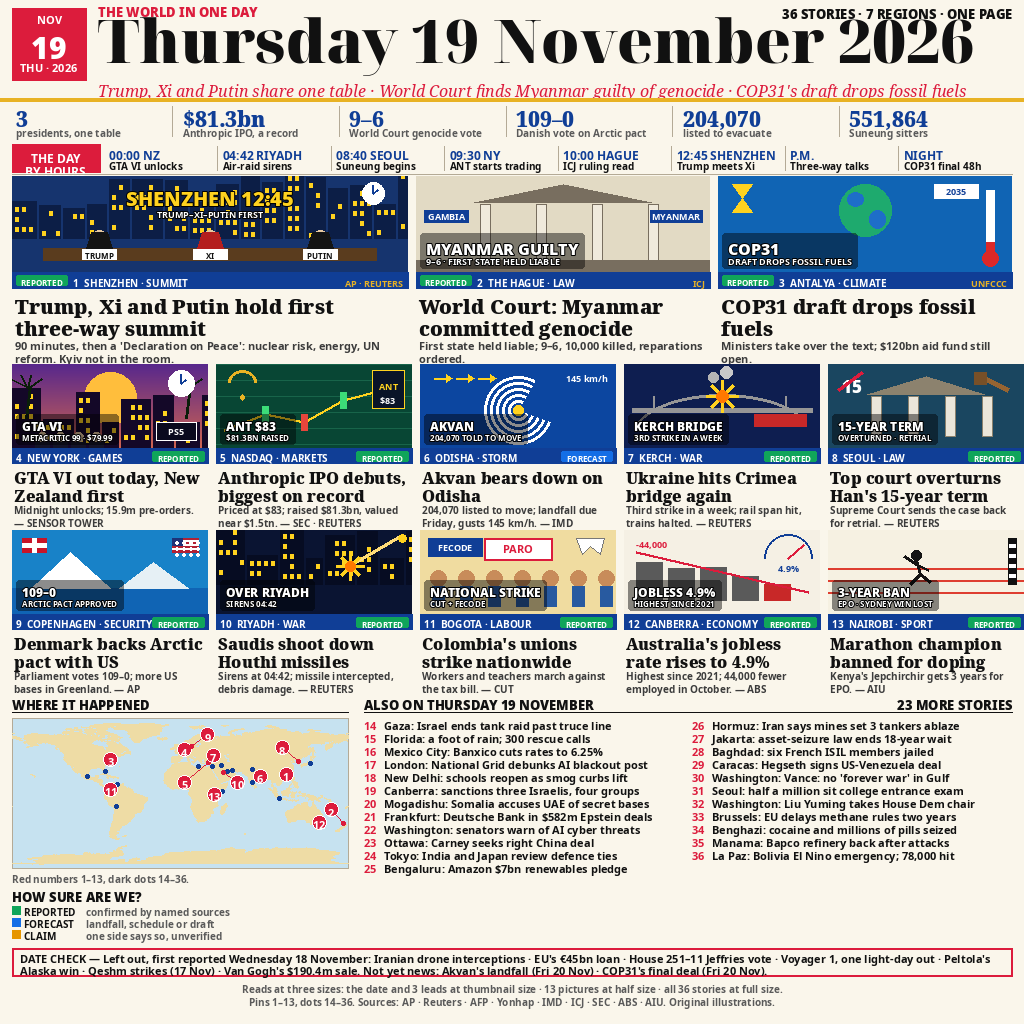
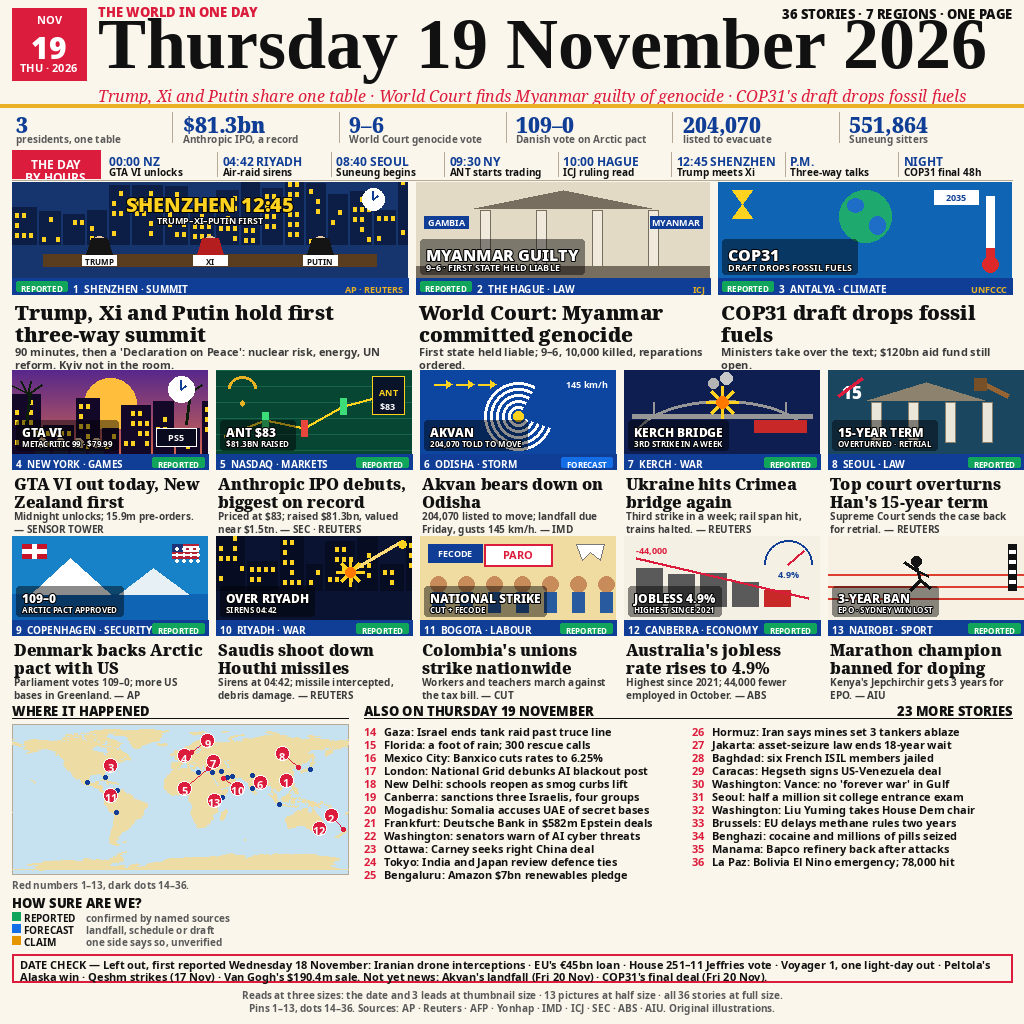
v10: masthead date now Liberation Serif Bold 72px (Times face, matches top 1), masthead band +6px, all bands shifted +6

diff --git a/draw.py b/draw.py
@@ -1,12 +1,15 @@
 #!/usr/bin/env python3
-"""news-image-20261119 v9: 36 stories, newspaper front page after the top 1.
+"""news-image-20261119 v10: 36 stories, newspaper front page after the top 1.
 Draws entry.png (1024x1024, deterministic) from world.geo.json only.
-v9 vs v8: masthead date "Thursday 19 November 2026" now 60px in the same
-face as the top 1 (NotoSerifDisplay-Black, measured 876px wide — the old 46px
-spanned only 672px). The masthead band grew 10px (0-98) so the bigger title
-fits between the kicker and the red deck line; every band below shifted +10px
-(gold rule 98, stats 102, timeline 144, heroes 176, smalls 364, map 696, date
-check 948, footer 982, ending ~1005).
+v10 vs v9: the masthead date font was WRONG — v9 used NotoSerifDisplay-Black
+(a high-contrast Didone), but hazel-harbor-63 uses a Times-style oldstyle
+serif. Side-by-side font test (equal width) proved Liberation Serif Bold
+(Times) matches top 1's letterforms; Display Black, Noto Serif Black and
+DejaVu Serif Bold do not. Title now LiberationSerif-Bold 72px, measured 889px
+wide (v9: 876px; top 1: ~985px from x=15, ours starts at x=98 after the date
+box). Masthead band grew 6px more (0-104); every band below shifted +6px
+(gold rule 104, stats 108, timeline 150, heroes 182, smalls 370, map 702,
+date check 954, footer 988, ending ~1011).
 Run: python3 draw.py  -> writes entry.png in this directory."""
 import json
 import math
@@ -28,13 +31,14 @@ SAND = (238, 220, 165)
 
 FD = "/usr/share/fonts/truetype/dejavu"
 FNOTO = "/usr/share/fonts/truetype/noto"
+FLIB = "/usr/share/fonts/truetype/liberation"
 
 
 def font(name, size, base=FD):
     return ImageFont.truetype(os.path.join(base, name), size)
 
 
-F_TITLE = font("NotoSerifDisplay-Black.ttf", 60, FNOTO)
+F_TITLE = font("LiberationSerif-Bold.ttf", 72, FLIB)
 F_EYE = font("NotoSans-Black.ttf", 13, FNOTO)
 F_DECKLINE = font("NotoSerif-Italic.ttf", 16, FNOTO)
 F_DATE = font("NotoSans-Black.ttf", 30, FNOTO)
@@ -626,45 +630,45 @@ def main():
     img = Image.new("RGB", (W, H), PAPER)
     d = ImageDraw.Draw(img)
 
-    # ---- masthead 0-98: date in the top-1 face, bigger (60px Display Black) ----
+    # ---- masthead 0-104: date in the top-1 face (Liberation Serif Bold = Times) ----
     d.rectangle([12, 8, 86, 80], fill=RED)
     d.text((49, 12), "NOV", font=F_DATE2, fill="white", anchor="ma")
     d.text((49, 26), "19", font=F_DATE, fill="white", anchor="ma")
     d.text((49, 60), "THU \u00b7 2026", font=F_DATE2, fill="white", anchor="ma")
     d.text((98, 3), "THE WORLD IN ONE DAY", font=F_EYE, fill=RED)
-    d.text((98, -2), "Thursday 19 November 2026", font=F_TITLE, fill=INK)
-    d.text((98, 79), "Trump, Xi and Putin share one table \u00b7 World Court finds "
+    d.text((98, 3), "Thursday 19 November 2026", font=F_TITLE, fill=INK)
+    d.text((98, 84), "Trump, Xi and Putin share one table \u00b7 World Court finds "
            "Myanmar guilty of genocide \u00b7 COP31's draft drops fossil fuels",
            font=F_DECKLINE, fill=RED)
     d.text((1012, 5), "36 STORIES \u00b7 7 REGIONS \u00b7 ONE PAGE",
            font=F_EYE, fill=INK, anchor="ra")
-    d.rectangle([0, 98, W, 101], fill=GOLD)
+    d.rectangle([0, 104, W, 107], fill=GOLD)
 
-    # ---- big-numbers strip 102-140 ----
+    # ---- big-numbers strip 108-146 ----
     sw6 = (W - 24) / 6.0
     for si, (val, cap) in enumerate(STATS):
         sx = 12 + si * sw6
         if si > 0:
-            d.line([sx - 6, 106, sx - 6, 136], fill=RULE, width=1)
-        d.text((sx + 4, 104), val, font=F_STATB, fill=NAVY)
-        d.text((sx + 4, 126), cap, font=F_STATC, fill=GREY)
+            d.line([sx - 6, 112, sx - 6, 142], fill=RULE, width=1)
+        d.text((sx + 4, 110), val, font=F_STATB, fill=NAVY)
+        d.text((sx + 4, 132), cap, font=F_STATC, fill=GREY)
 
-    # ---- THE DAY BY HOURS timeline 144-172 ----
-    d.rectangle([12, 144, 100, 172], fill=RED)
-    d.text((56, 150), "THE DAY", font=F_TTIME, fill="white", anchor="ma")
-    d.text((56, 163), "BY HOURS", font=F_TTIME, fill="white", anchor="ma")
+    # ---- THE DAY BY HOURS timeline 150-178 ----
+    d.rectangle([12, 150, 100, 178], fill=RED)
+    d.text((56, 156), "THE DAY", font=F_TTIME, fill="white", anchor="ma")
+    d.text((56, 169), "BY HOURS", font=F_TTIME, fill="white", anchor="ma")
     bx = 104
     bw = (W - 12 - bx) / 8.0
     for i, (t, txt) in enumerate(TIMELINE):
         cx = bx + i * bw
         if i > 0:
-            d.line([cx, 146, cx, 170], fill=RULE, width=1)
-        d.text((cx + 5, 147), t, font=F_TTIME, fill=NAVY)
-        d.text((cx + 5, 159), txt, font=F_TTEXT, fill=INK)
-    d.line([12, 174, W - 12, 174], fill=RULE, width=1)
+            d.line([cx, 152, cx, 176], fill=RULE, width=1)
+        d.text((cx + 5, 153), t, font=F_TTIME, fill=NAVY)
+        d.text((cx + 5, 165), txt, font=F_TTEXT, fill=INK)
+    d.line([12, 180, W - 12, 180], fill=RULE, width=1)
 
-    # ---- heroes 176-358: lead 396 wide, rails 294 (hierarchy, not equal thirds) ----
-    hy = 176
+    # ---- heroes 182-364: lead 396 wide, rails 294 (hierarchy, not equal thirds) ----
+    hy = 182
     hws = [396, 294, 294]
     for i, (num, reg, topic, src, status, head, deck, big, small, key) in enumerate(FRONT[:3]):
         hw = hws[i]
@@ -695,14 +699,14 @@ def main():
             d.text((cx + 3, hy + 116 + len(lines) * 22 + 2 + j * 13),
                    ln, font=F_DECK, fill=(60, 60, 60))
 
-    # ---- smalls 364-690 (2 rows x 5, image 196x84) ----
+    # ---- smalls 370-696 (2 rows x 5, image 196x84) ----
     sw_ = 196
     for r in range(2):
         for c in range(5):
             k = 3 + r * 5 + c
             num, reg, topic, src, status, head, deck, big, small, key = FRONT[k]
             cx = 12 + c * (sw_ + 8)
-            cy = 364 + r * 166
+            cy = 370 + r * 166
             im = art_image(key, sw_, 84)
             idd = ImageDraw.Draw(im)
             art_text(im, idd, 0, 0, sw_, 84, big, small, F_LBL2, F_LBL2_S)
@@ -722,8 +726,8 @@ def main():
                 d.text((cx + 2, cy + 102 + len(lines) * 18 + 1 + j * 13),
                        ln, font=F_DECK_S, fill=(60, 60, 60))
 
-    # ---- map + also 696-936 (map taller, also-list roomier) ----
-    my = 696
+    # ---- map + also 702-942 (map taller, also-list roomier) ----
+    my = 702
     d.text((12, my), "WHERE IT HAPPENED", font=F_SEC, fill=INK)
     d.line([12, my + 16, 348, my + 16], fill=INK, width=1)
     d.rectangle([12, my + 22, 348, my + 172], fill=OCEAN, outline=RULE, width=1)
@@ -754,8 +758,8 @@ def main():
         lines = wrap(d, full, F_ALSO, colw - 22, max_lines=1)
         d.text((x + 20, y), lines[0] if lines else "", font=F_ALSO, fill=INK)
 
-    # ---- date check 948-976: thin 2-line band (was a 40px box) ----
-    dy = 948
+    # ---- date check 954-982: thin 2-line band (was a 40px box) ----
+    dy = 954
     d.rectangle([12, dy, 1012, dy + 28], outline=RED, width=2)
     chk = ("DATE CHECK \u2014 Left out, first reported Wednesday 18 November: Iranian drone "
            "interceptions \u00b7 EU's \u20ac45bn loan \u00b7 House 251\u201311 Jeffries vote \u00b7 "
@@ -766,8 +770,8 @@ def main():
     for j, ln in enumerate(clines):
         d.text((20, dy + 3 + j * 12), ln, font=F_DATECHK, fill=INK)
 
-    # ---- footer 982-1012 ----
-    fy = 982
+    # ---- footer 988-1018 ----
+    fy = 988
     d.text((512, fy), "Reads at three sizes: the date and 3 leads at thumbnail size \u00b7 "
            "13 pictures at half size \u00b7 all 36 stories at full size.",
            font=F_FOOT, fill=GREY, anchor="ma")
